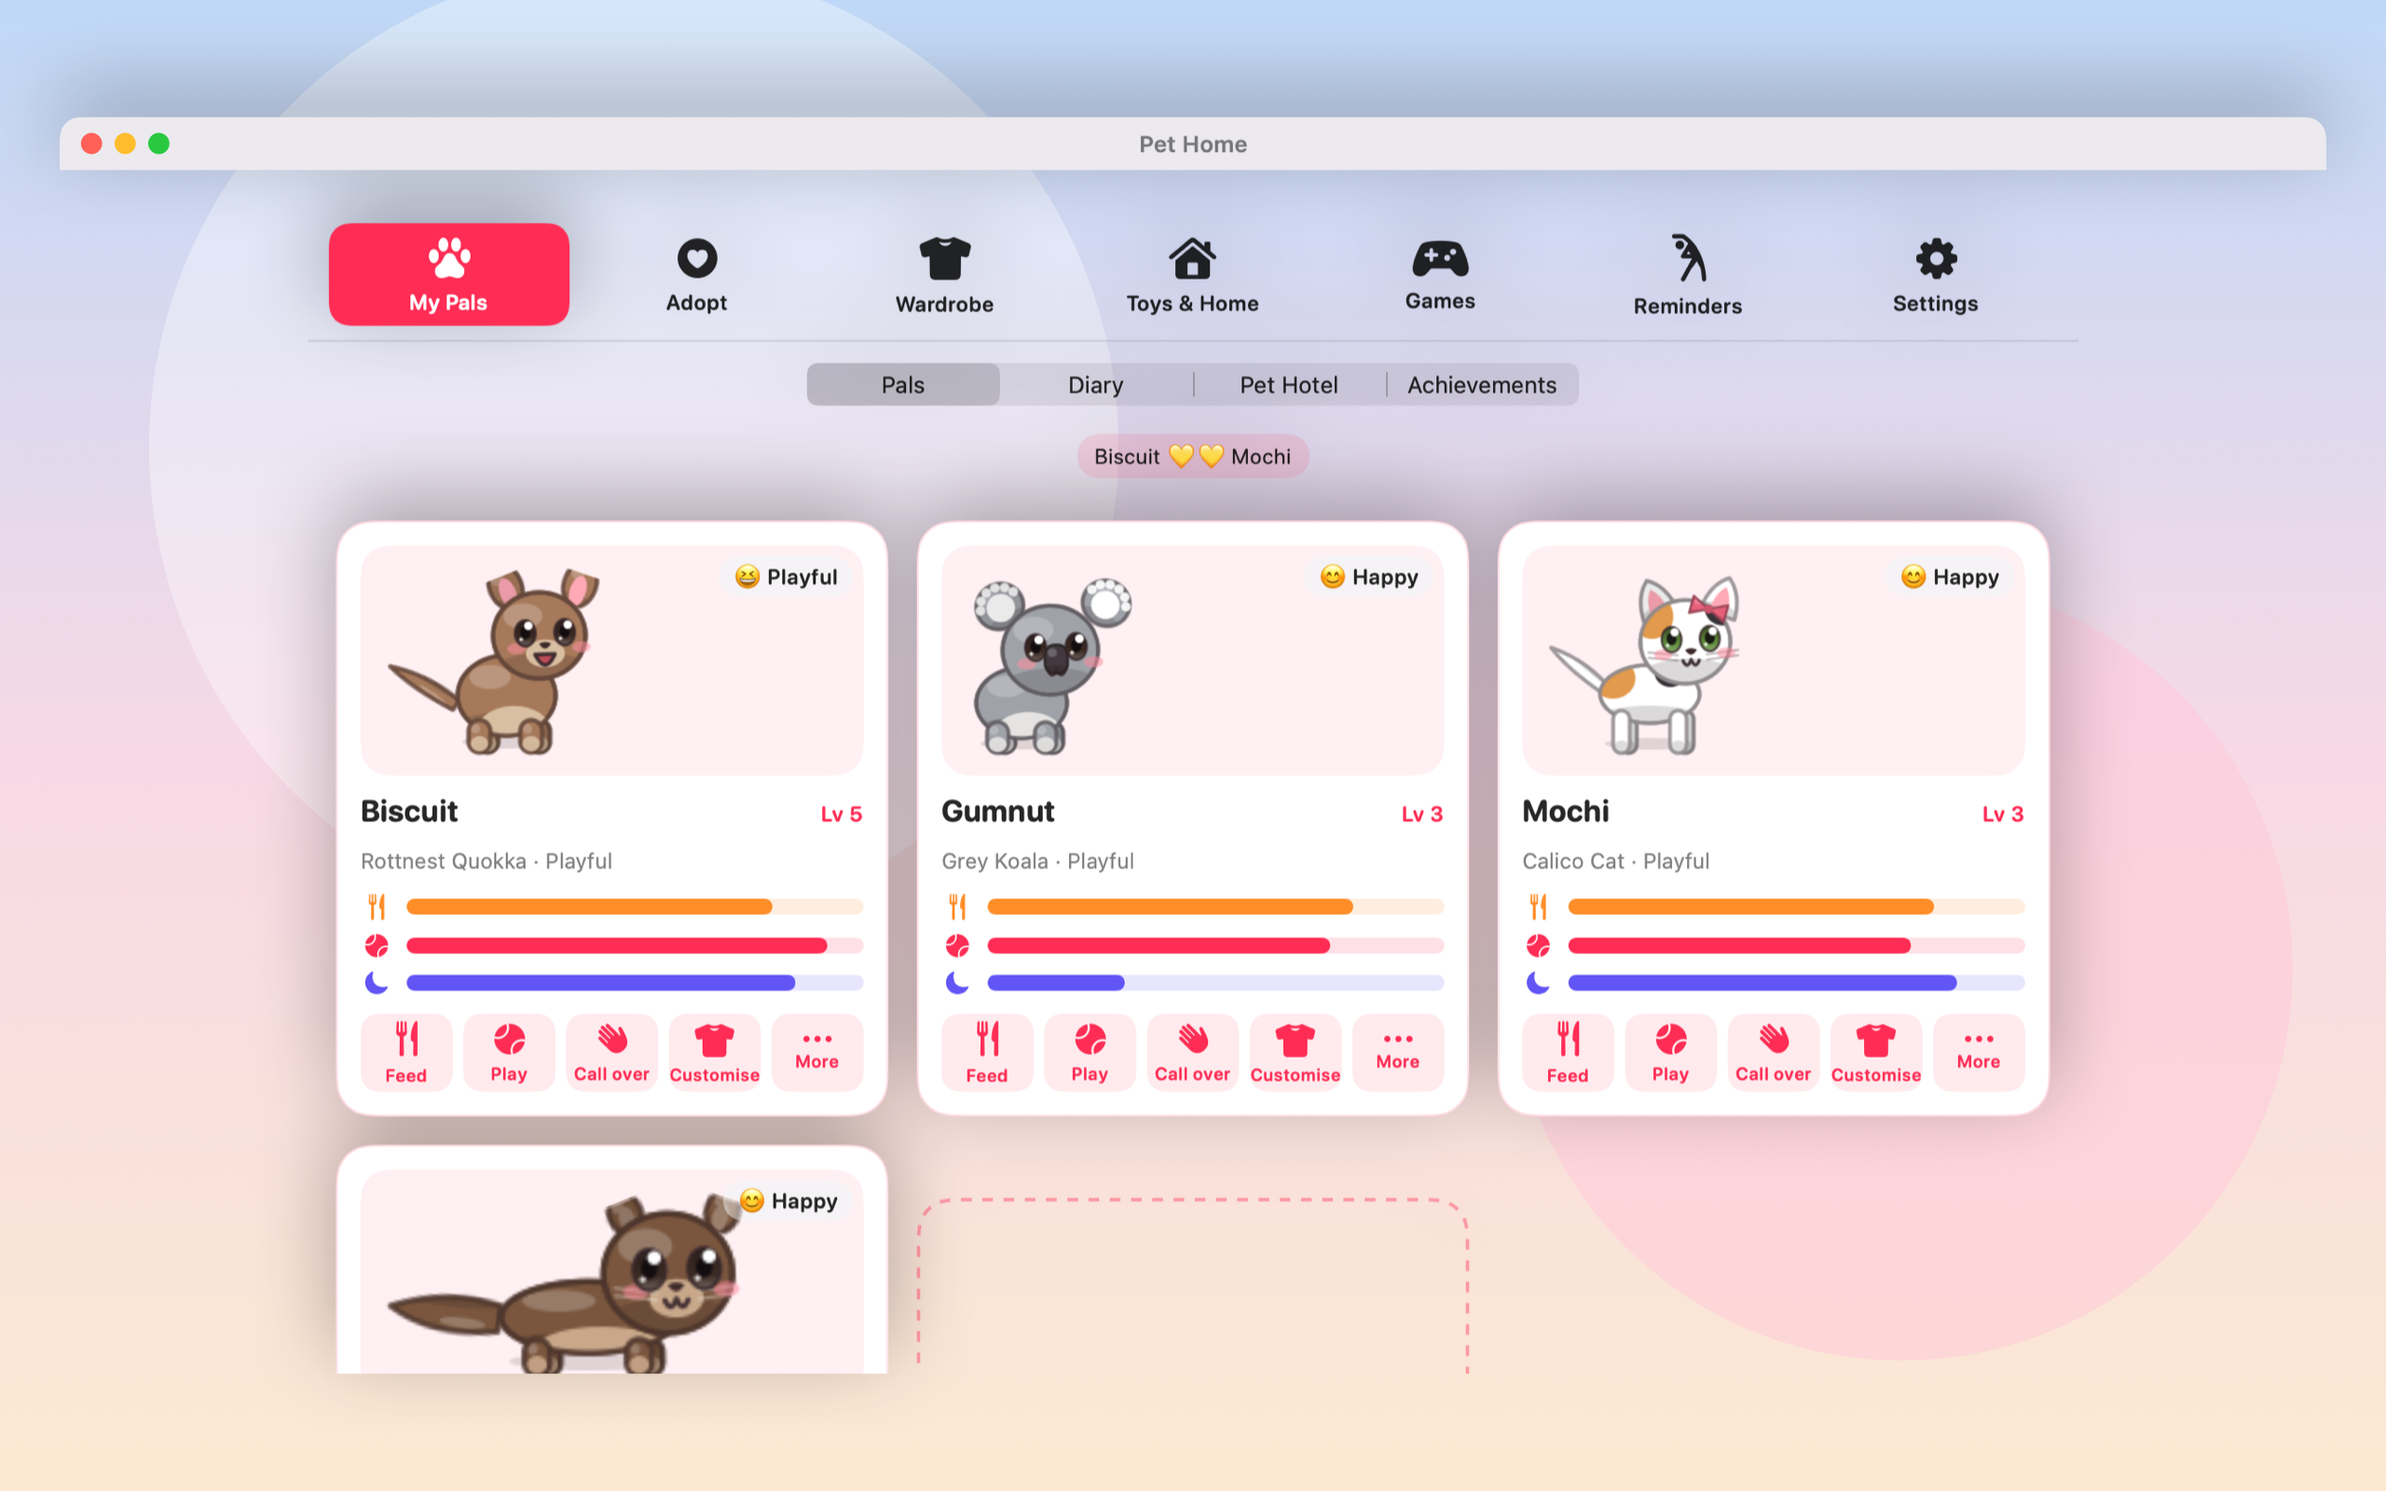
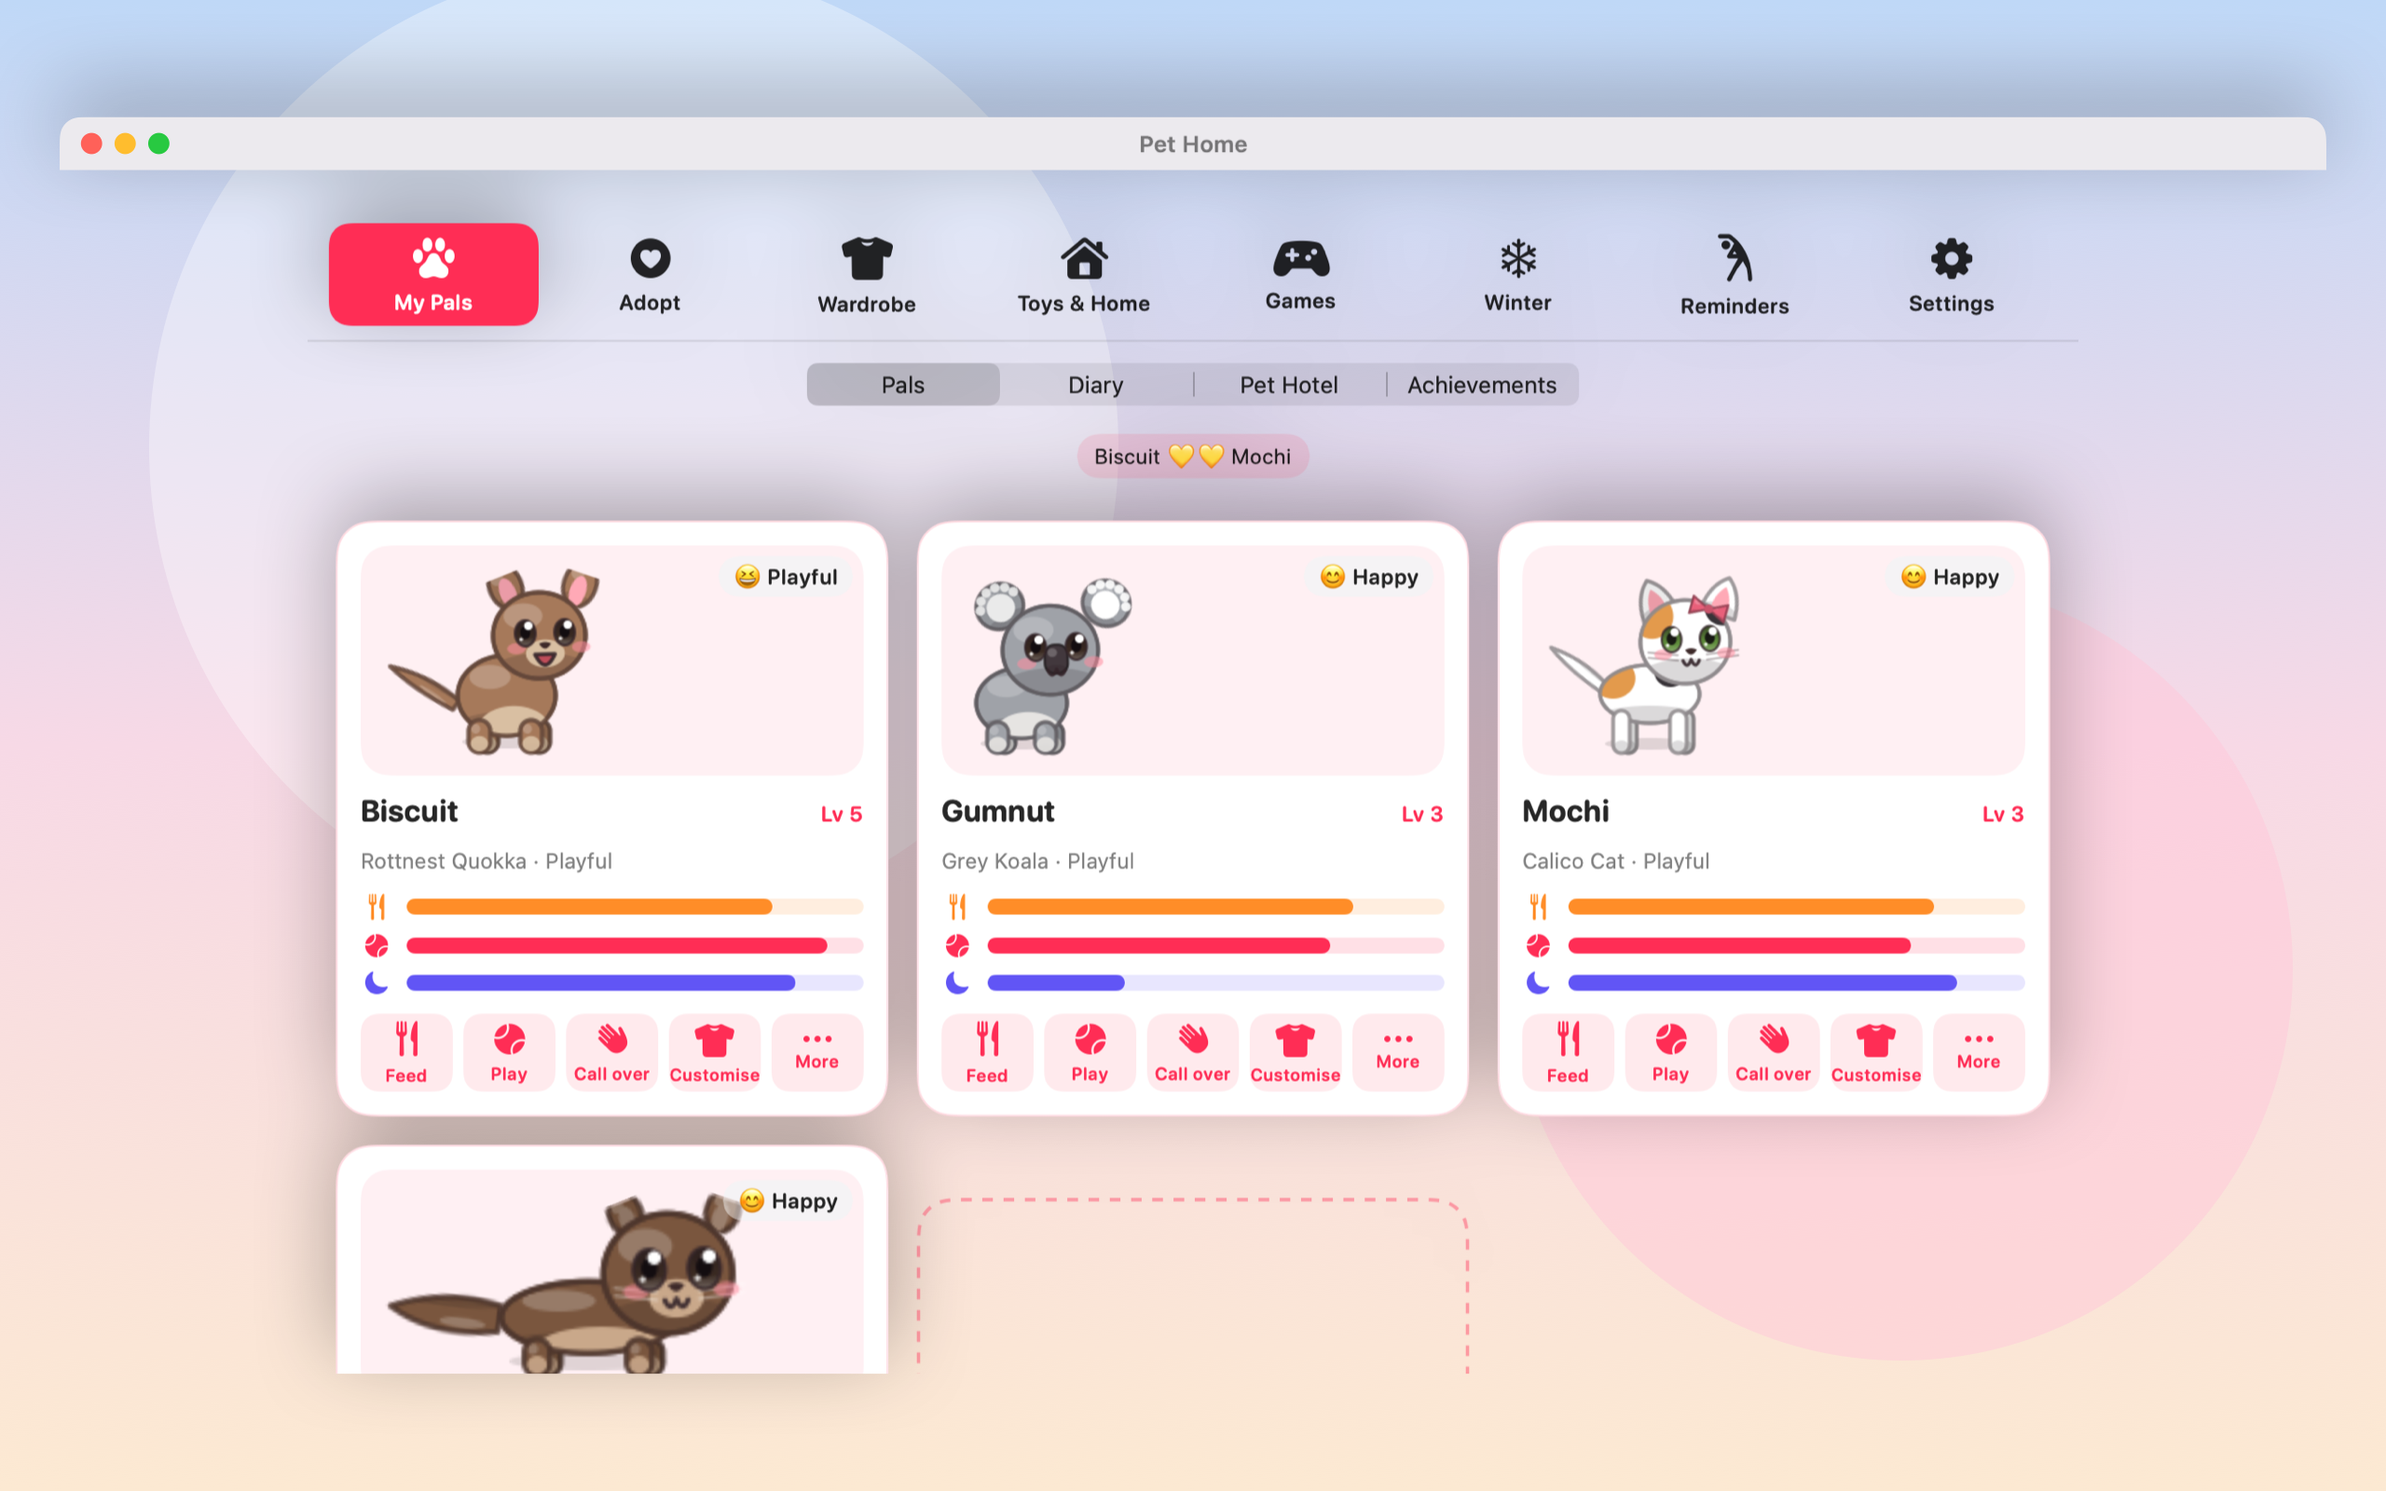
Release 1.2.0

diff --git a/release-notes/1.2.0.html b/release-notes/1.2.0.html
@@ -1,0 +1,4 @@
+<!doctype html><html><head><meta charset="utf-8"><title>Pocket Pals 1.2.0</title>
+<style>body{font:13px -apple-system,sans-serif;margin:16px;color:#222}h2{margin:0 0 4px}h3{margin:14px 0 4px;color:#d9507a}
+li{margin:3px 0}@media (prefers-color-scheme:dark){body{color:#eee;background:#1e1e1e}}</style></head>
+<body><h2>Pocket Pals 1.2.0</h2><p>Pets stay on your desktop, perch on minimised windows, Winter Wonderland with snow plough, and menus above the Dock</p><h3>Added</h3><ul><li>**Winter Wonderland.** Turn on snow from ❄ in the menu bar (with Light, Medium and Blizzard), or let Auto snow in your winter: June to August in the Southern Hemisphere, December to February in the Northern, worked out from your region (you can override it). With weather on, it also snows when it&#x27;s really snowing outside, with real wind.</li><p>  - Snow falls in two layers of six-pointed flakes, behind your windows (or over everything, if you prefer), and scatters when you whoosh the pointer through it.</p><p>  - It settles on the Dock, on Dock icons and minimised windows, on your items, and if you like on window title bars and along the menu bar. Pals leave footprints and land with a puff; snow slides off windows you drag and tumbles off restored windows. Option-drag to wipe snow away. When snow is turned off it melts over about 30 seconds; **Clear all snow** is instant.</p><p>  - **A snow plough you can drive.** Click it, then drive with ← → or A D, Space lifts the blade and Shift goes faster. It pushes snow into piles (no snow is ever lost), with spray, an engine putter and a reversing beep. Click a pile to make a snowball, a snowman (bigger piles make bigger snowmen) or a snow fort, or flatten it. Pals ride along and chase it, and an optional auto-plough clears the Dock by itself.</p><p>  - **Winter items:** snowmen you can dress (hats, scarves, faces, buttons and arms) that slowly melt when the snow stops, throwable snowballs, a frozen pond pals slide on, a sled, a cosy fireplace and hot chocolate pals curl up beside, candy canes, icicles, big snowflakes and a wreath that hang from the menu bar. Right-click any item to resize (or scroll over it), duplicate or remove it, and **Tidy up** / **Restore my winter scene** in Pet Home&#x27;s new Winter tab.</p><p>  - **Christmas** (Off, On, or Auto from 1 December to 6 January, separate from snow): a Christmas tree in three sizes with ornaments, a star or angel topper and twinkling lights, strings of fairy lights that hang like the real thing with five colour themes and five modes, presents your pals open, and an advent calendar with a little surprise behind every door.</p><p>  - **Pals in winter:** automatic scarves, beanies, earmuffs and boots, little puffs of breath, snow angels, catching snowflakes, digging, shaking off snow, sliding on ice, building tiny snowmen of their own, and curling up by the fire. Reindeer antlers, a Santa hat, earmuffs and boots are in the wardrobe.</p><p>  - Winter visitors: a robin flies by now and then, and a sleigh crosses the sky on Christmas Eve.</p><p>  - **Snowball Fight**, a seventh mini-game: aim and throw at snowman targets while your pals lob snowballs back at the pointer.</p><p>  - New sounds: wind, snow crunch, the plough&#x27;s engine, scrape and beep, snowball throws, jingle bells and a music-box tune.</p><li>**Perch on the Dock.** Pals sit on Dock icons and minimised windows, choose perches by themselves (minimised windows are favourites), and react when a window is restored or the Dock hides. Drag a pal over a Dock item and it glows: let go to perch it there. Clicking the icon under a perched pal still goes straight to the Dock. Works with the Dock on the bottom, left or right. This reads where Dock items are with Accessibility permission (explained in onboarding and Settings, with an Open System Settings button); everything else works without it.</li><li>**Where pets appear** (Settings › Basic): All desktops (the default) or Only this desktop, with a **Move pets to this desktop** button.</li><li>Help › Getting Started now includes the Dock perches and a short winter tour.</li></ul><h3>Changed</h3><ul><li>Pets now live above the Dock, so pals perched on it, their speech bubbles and name tags are never hidden behind it. They stay below menus, notifications and the screen saver.</li><li>The round menu, item menus, reminder bubbles, guided breaks and the game panel now open above the Dock. Near the Dock the round menu opens as an upward half circle, right under the menu bar it opens downwards, and near the sides it shifts inwards so every button is on screen. It pops open, and you can use the arrow keys and Return, or Escape (or a click anywhere else) to close it.</li><li>Speech bubbles and name tags stay inside the screen: under the menu bar they move below the pal, and at the edges they shift inwards with the tail still pointing at your pal.</li></ul><h3>Fixed</h3><ul><li>**Pals no longer appear inside fullscreen apps.** The menu, reminder and game panels were allowed into fullscreen Spaces, and with &quot;Over fullscreen apps&quot; switched off the pets&#x27; own windows were too. Nothing joins a fullscreen Space now, and each display&#x27;s pets hide instantly (and pause) while it shows a fullscreen app, then peek back when you return to a desktop. Works with multiple displays, &quot;Displays have separate Spaces&quot; and Stage Manager.</li><li>The round menu could open behind the Dock when you right-clicked a pal standing on it.</li><li>Weather outfits: the raincoat and scarf were never actually worn. Pals now wear them (in empty outfit slots), and splash through puddles when it rains.</li></ul></body></html>

diff --git a/README.md b/README.md
@@ -1,9 +1,9 @@
-<p align="center"><img src="screenshots/3-beds-and-toys.png" alt="A cat napping in a basket, a quokka eating from a bowl, a corgi with a ball and an otter floating in a pool on top of the Dock, a koala hugging the side of a window and a bee visiting a flower" width="900"></p>
+<p align="center"><img src="screenshots/winter-1-dock-perches.png" alt="Snow falling on a desktop: snowy Dock icons and three minimised windows with a cat and a quokka in a beanie perched on them, and a bunny hopping along the snowy Dock" width="900"></p>
 
 # Pocket Pals
 
 **Cute little animals that live on your screen.**
-Almost fifty original pals walk along your Dock, climb your windows, play with toys and games, grow up with you, and remind you to take breaks. Every one is drawn in code, just for you.
+Almost fifty original pals walk along your Dock, perch on your minimised windows, climb your windows, play with toys and games, play in the snow, grow up with you, and remind you to take breaks. Every one is drawn in code, just for you.
 
 <p align="center">
   <a href="https://github.com/MilkshakeSR/PocketPals/releases/latest/download/PocketPals.dmg">
@@ -12,23 +12,22 @@ Almost fifty original pals walk along your Dock, climb your windows, play with t
 </p>
 
 ## Screenshots
-| Pet Home | Aussie Mates |
-| --- | --- |
-| ![Pet Home showing cards for a quokka, a koala, a cat and an otter, each with mood, needs bars and Feed, Play, Call over, Customise and More buttons](screenshots/1-pet-home.png) | ![The Adopt tab showing the Aussie Mates: quokka, wombat, koala, kangaroo, platypus, echidna, sugar glider, kookaburra, cockatoo and blue-tongue lizard](screenshots/2-adopt-aussie-mates.png) |
-
-| Mini-games | Guided breaks |
-| --- | --- |
-| ![Bubble Pop: bubbles floating up the screen while a cat and a squirrel chase them, with the score and time at the top](screenshots/4-mini-game.png) | ![A guided stretch break with a countdown, and a quokka standing tall with headphones on](screenshots/5-guided-stretch-break.png) |
+| Drive the snow plough | Deck the desktop | Snow days |
+| --- | --- | --- |
+| ![A corgi in a scarf riding an orange snow plough that pushes a snowbank along the snowy Dock, with the plough controls at the top of the screen](screenshots/winter-2-snow-plough.png) | ![A decorated Christmas tree with twinkling lights and a star, presents, a cosy fireplace with a sleeping koala in a Santa hat, a corgi in reindeer antlers and fairy lights under the menu bar](screenshots/winter-3-christmas-tree.png) | ![Two snowmen, one big in a top hat and one tiny in a beanie, with a penguin, a fox in a scarf and a bunny in earmuffs making a snow angel](screenshots/winter-4-snowman.png) |
 
 ## Features
+- **New in 1.2: Winter Wonderland.** Snow that falls behind your windows and settles on the Dock, your Dock icons and your things, a **snow plough you can drive** to push snow into piles and build snowmen and forts, a Christmas tree with twinkling lights, fairy lights, presents your pals open, an advent calendar, snowball fights, and pals in scarves and earmuffs making snow angels. Turn it on with ❄ in the menu bar, or let it snow automatically in your winter (June to August in the Southern Hemisphere, December to February in the Northern).
+- **Perch on the Dock.** Pals sit on Dock icons and minimised windows. Drag one over a Dock item and let go to perch it there.
+- **Pals stay on your desktop.** They never appear inside fullscreen apps. Choose all desktops or just one.
 - **49 original animals in five collections.** Classic pals (dogs, cats, bunnies, birds and more), **Aussie Mates** (quokka, wombat, koala, kangaroo and joey, platypus, echidna, sugar glider, kookaburra, cockatoo, blue-tongue lizard), **Cute & Cosy** (otter, sloth, capybara, red panda, raccoon, squirrel, guinea pig, chinchilla, ferret, mouse, lamb, piglet, pony, fawn, seal pup, polar bear cub, panda) and **Tiny Friends** (snail, bee, butterfly, ladybug, octopus, jellyfish, gecko). Each has its own colours, sound and special moves.
 - **Special pals to unlock**: a Unicorn, a Phoenix, a Little Robot, a Ghost Cat who visits every October, and a Baby Dragon who learns to breathe sparkles.
 - **Pet Home**: one friendly window for your pals, adopting (with a "find your perfect pal" quiz), the wardrobe, toys, games, reminders and settings. Hold Control-Option-P to open it.
 - **They live on your screen.** Pals walk along your Dock, hop onto windows, ride along when you move a window, peek out from behind windows and perch under the menu bar. Hover over the Dock icons and they follow the pointer.
 - **Toys and a cosy home.** Beds, bowls, balls, yarn, wheels, perches, flowers, a paddling pool, plants and a lamp that glows at night. Pals use them by themselves. Unlock them with treats you earn by taking breaks and playing (treats can never be bought).
-- **Six mini-games**: Fetch, Hide & Seek, Treat Catch, Copy Me, Bubble Pop and Pet Race.
+- **Seven mini-games**: Fetch, Hide & Seek, Treat Catch, Copy Me, Bubble Pop, Pet Race and Snowball Fight.
 - **They grow up with you.** New pals start as babies and grow up over ten days, learn tricks with practice, make friends with each other, and fill a daily diary with cute moments you can share.
-- **Right-click a pal** for a round menu: Feed, Play, Pet, Trick, Sleep, Wardrobe, Hide and Pet Home.
+- **Right-click a pal** for a round menu: Feed, Play, Pet, Trick, Sleep, Wardrobe, Hide and Pet Home. It always opens above the Dock, and works with the arrow keys.
 - **Never in the way.** Clicks go straight through. Pals move aside if they're in your way, never sit on window buttons, hide during screen sharing, presentations, video calls and fullscreen apps, and **Shy mode** sends them to the corner.
 - **Better breaks.** Friendly reminders to stretch, rest your eyes, drink water and wrap up. Your pal leads short guided stretches, a 20-20-20 eye break or a breathing exercise, and **Study with me** keeps you company through a focus session.
 - **Little extras (all optional):** weather outfits, good-luck wishes before exams, dancing to Music or Spotify, celebrations on your birthday and special days for your region.
@@ -50,6 +49,7 @@ Pocket Pals checks for updates once a day and tells you when a new version is re
 
 ## Privacy
 - Pocket Pals looks at **window positions and sizes** only so pals can stand on them. It never reads window contents, takes no screenshots and needs no Screen Recording permission.
+- **Dock perches** (optional) use Accessibility permission only to read where Dock items are, so pals can sit on them. Nothing else is read, and nothing leaves your Mac. Everything else works without it.
 - It checks how long since you last typed, whether a camera or microphone is in use, screen sharing and your battery, so pals and reminders can be considerate. Nothing is recorded.
 - Optional features ask first and are off until you turn them on: **weather outfits** send your approximate location or a city you choose to [Open-Meteo](https://open-meteo.com/) (weather data by Open-Meteo.com); **calendar awareness** reads your events on your Mac only; **download celebrations** look only at new file names in Downloads.
 - Your pals stay on your Mac. Apart from the optional weather, the only thing that goes online is the daily update check to GitHub. No analytics, no tracking, no accounts.
